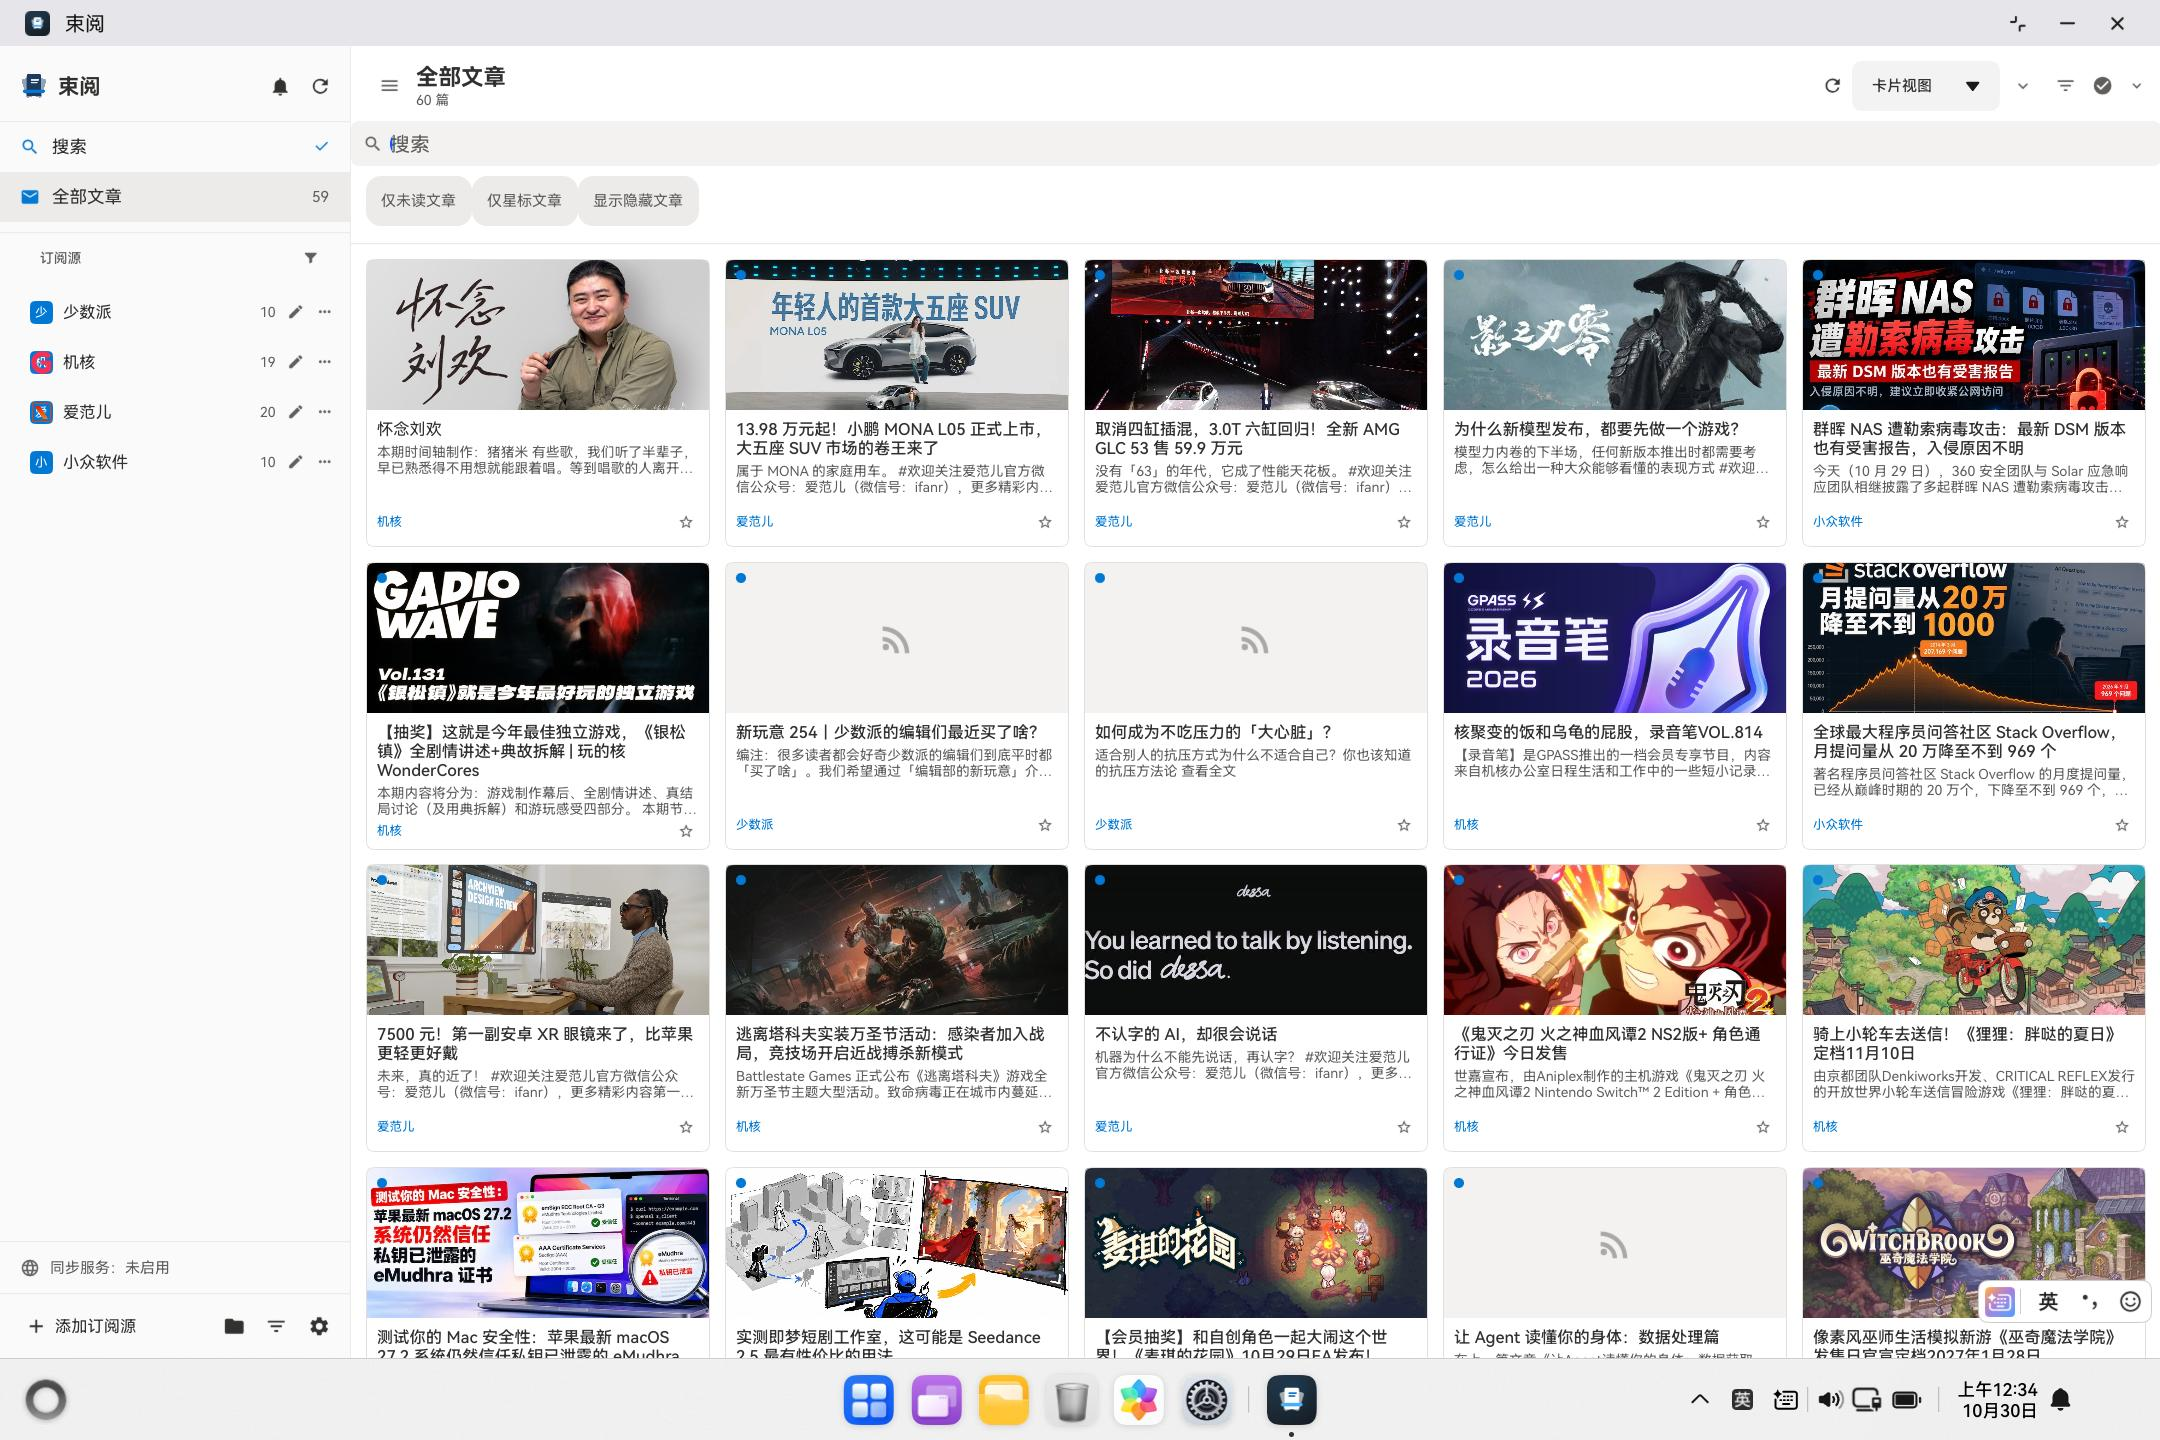
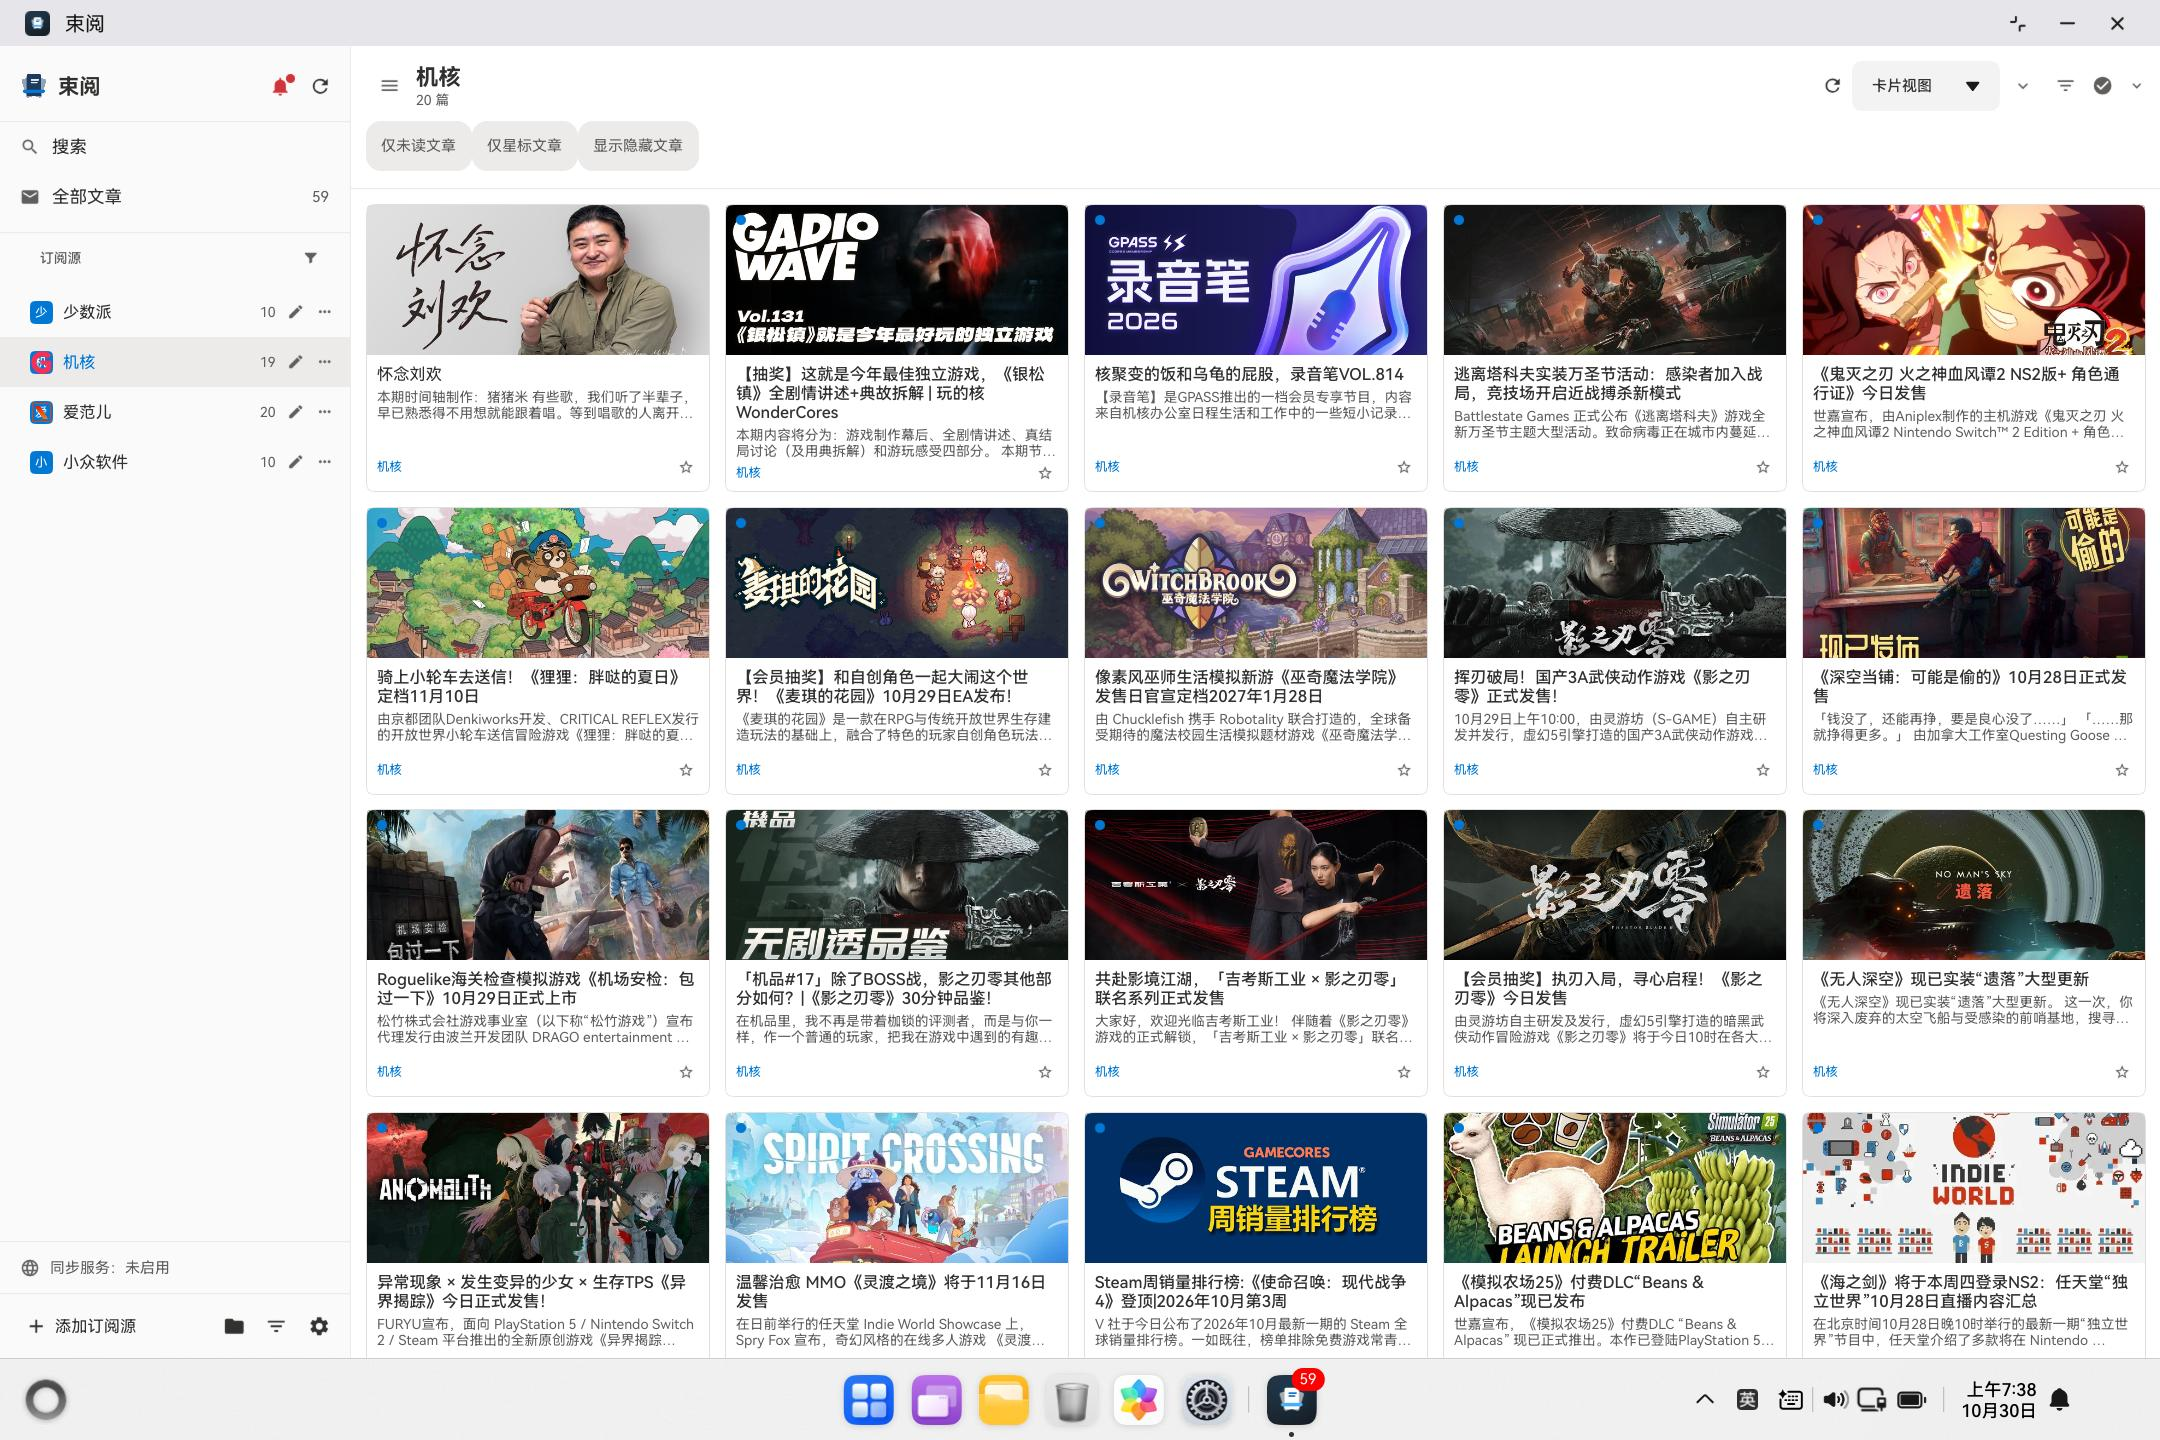
docs(store): reshoot the 2-in-1 card views on a source with complete covers
The card grid was captured from 全部文章, where 少数派's items carry no cover and
fell back to the RSS placeholder — three cards in the middle of the 2-in-1 grid
were grey boxes. Both 2-in-1 card shots now show 机核 (20 items, every one with a
cover), and docs/store/README.md records the rule: pick a source whose items all
have images when shooting card view.

diff --git a/docs/store/README.md b/docs/store/README.md
@@ -41,3 +41,8 @@
 
 注意：2-in-1 是**窗口最大化**（1728vp）才出现侧栏常驻的三栏布局；平板（1138vp）
 为抽屉式，主界面因此是「列表 + 阅读器」两栏。
+## 卡片视图的取景约定
+
+四张卡片截图都选「机核」这一源（20 篇，篇篇带封面），这样整屏卡片都有配图，
+不会出现 RSS 占位图。若换成「全部文章」，少数派的条目没有封面，网格里会留下
+灰色占位，观感明显变差 —— 采集卡片视图时请固定选一个图片完整的源。
